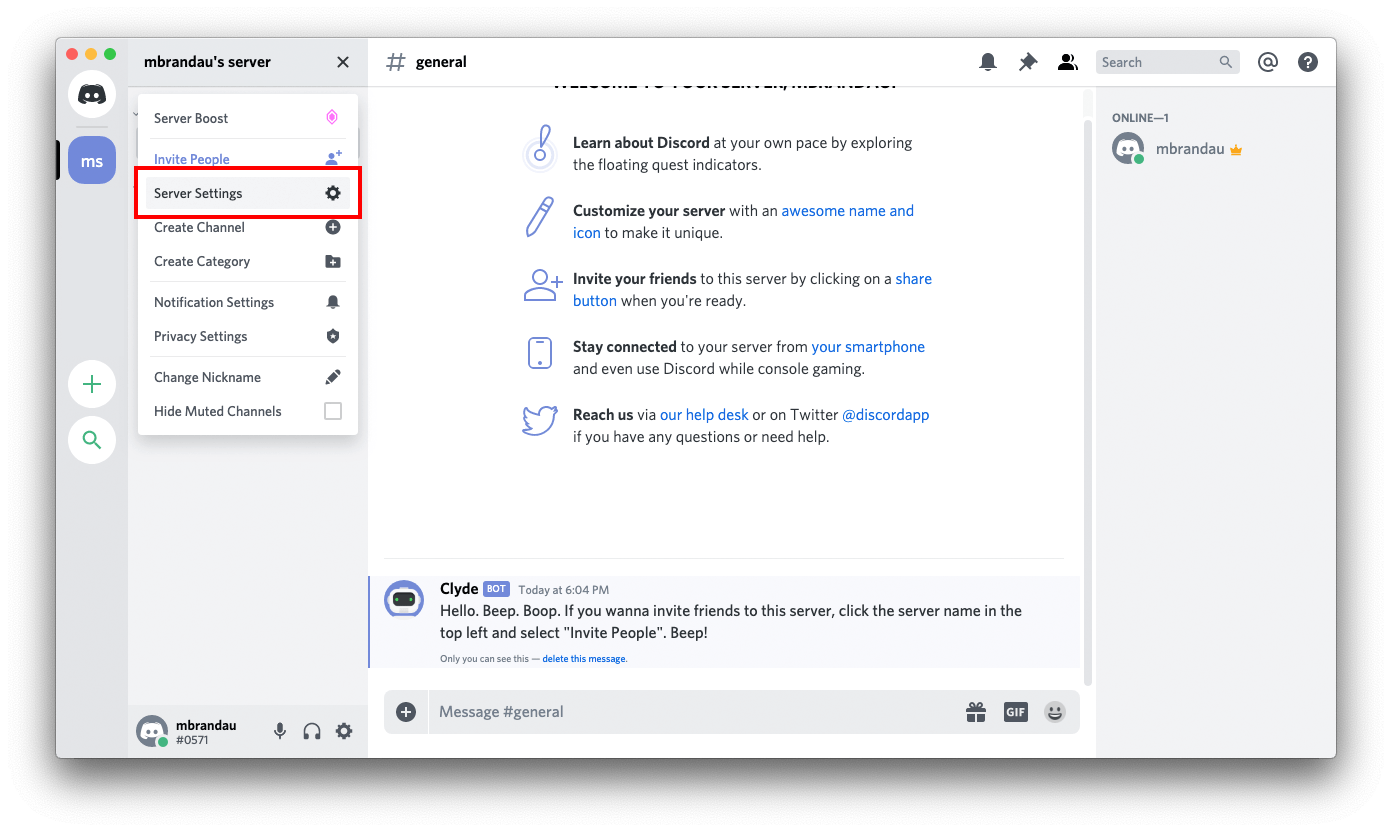
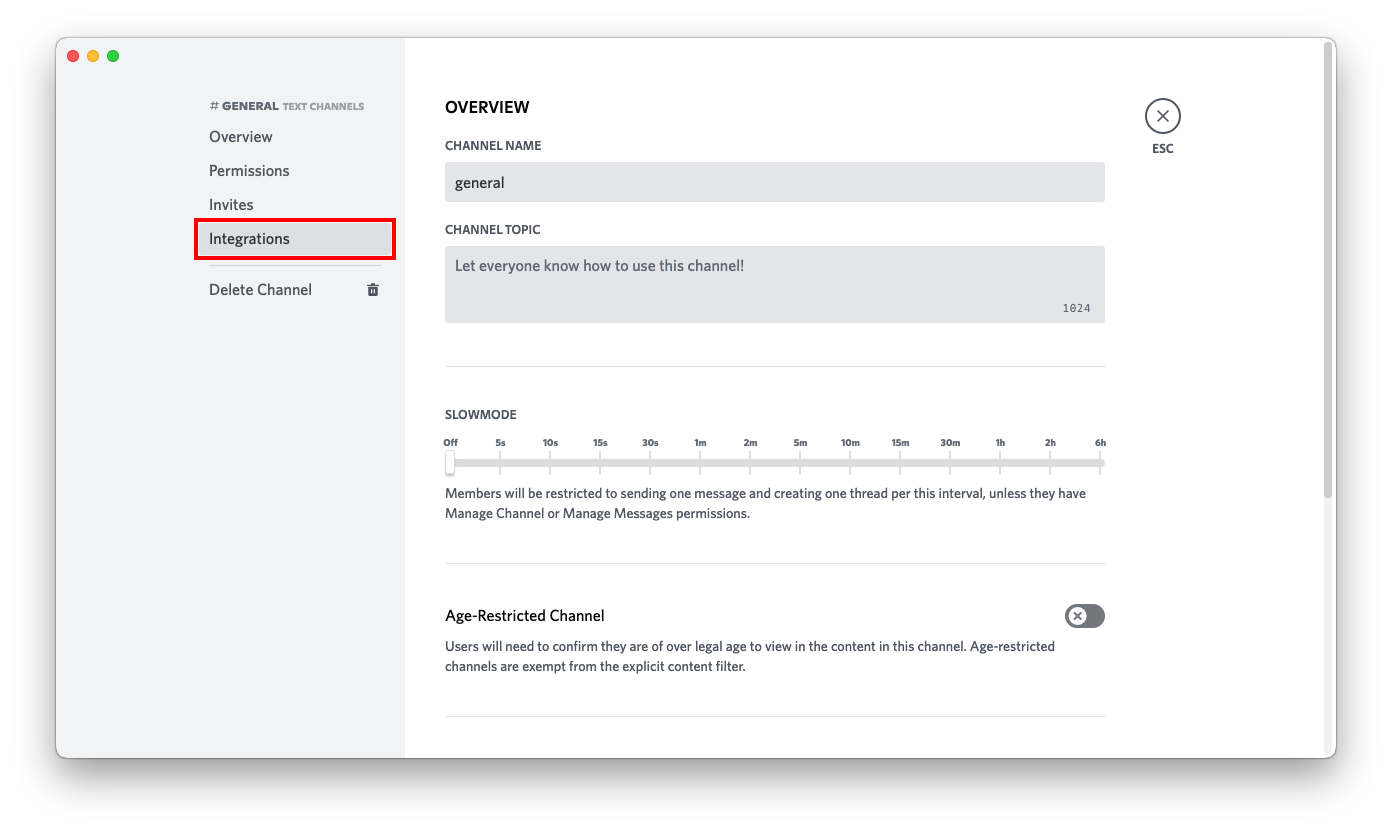
chore(discord): switch from deprecated discordapp.com domain (#236)

diff --git a/pkg/services/discord/discord.go b/pkg/services/discord/discord.go
@@ -26,7 +26,7 @@ var limits = types.MessageLimit{
 }
 
 const (
-	hookURL = "https://discordapp.com/api/webhooks"
+	hookURL = "https://discord.com/api/webhooks"
 	// Only search this many runes for a good split position
 	maxSearchRunes = 100
 )

diff --git a/docs/services/discord.md b/docs/services/discord.md
@@ -5,7 +5,7 @@
 Your Discord Webhook-URL will look like this:
 
 !!! info ""
-    https://discordapp.com/api/webhooks/__`webhookid`__/__`token`__  
+    https://discord.com/api/webhooks/__`webhookid`__/__`token`__  
 
 The shoutrrr service URL should look like this:  
 
@@ -16,26 +16,26 @@ The shoutrrr service URL should look like this:
 
 ## Creating a webhook in Discord
 
-1. Open your server settings by first clicking on the name of the server.
+1. Open your channel settings by first clicking on the gear icon next to the name of the channel.
 ![Screenshot 1](discord/sc-1.png)
 
-2. Then click on *Server Settings*.
+2. In the menu on the left, click on *Integrations*.
 ![Screenshot 2](discord/sc-2.png)
 
-3. In the menu on the left, click on *Webhooks*.
+3. In the menu on the right, click on *Create Webhook*.
 ![Screenshot 3](discord/sc-3.png)
 
-4. In the top right corner, click on *Create Webhook*.
+4. Set the name, channel and icon to your liking and click the *Copy Webhook URL* button.
 ![Screenshot 4](discord/sc-4.png)
 
-5. Set name, channel and icon to your liking and copy the *Webhook URL* on the bottom. Then click save.
+5. Press the *Save Changes* button.
 ![Screenshot 5](discord/sc-5.png)
 
-6. Format the service URL
+6. Format the service URL:
 ```
-https://discordapp.com/api/webhooks/693853386302554172/W3dE2OZz4C13_4z_uHfDOoC7BqTW288s-z1ykqI0iJnY_HjRqMGO8Sc7YDqvf_KVKjhJ
-                                    └────────────────┘ └──────────────────────────────────────────────────────────────────┘
-                                        webhook id                                    token
+https://discord.com/api/webhooks/693853386302554172/W3dE2OZz4C13_4z_uHfDOoC7BqTW288s-z1ykqI0iJnY_HjRqMGO8Sc7YDqvf_KVKjhJ
+                                 └────────────────┘ └──────────────────────────────────────────────────────────────────┘
+                                     webhook id                                    token
 
 discord://W3dE2OZz4C13_4z_uHfDOoC7BqTW288s-z1ykqI0iJnY_HjRqMGO8Sc7YDqvf_KVKjhJ@693853386302554172
           └──────────────────────────────────────────────────────────────────┘ └────────────────┘
